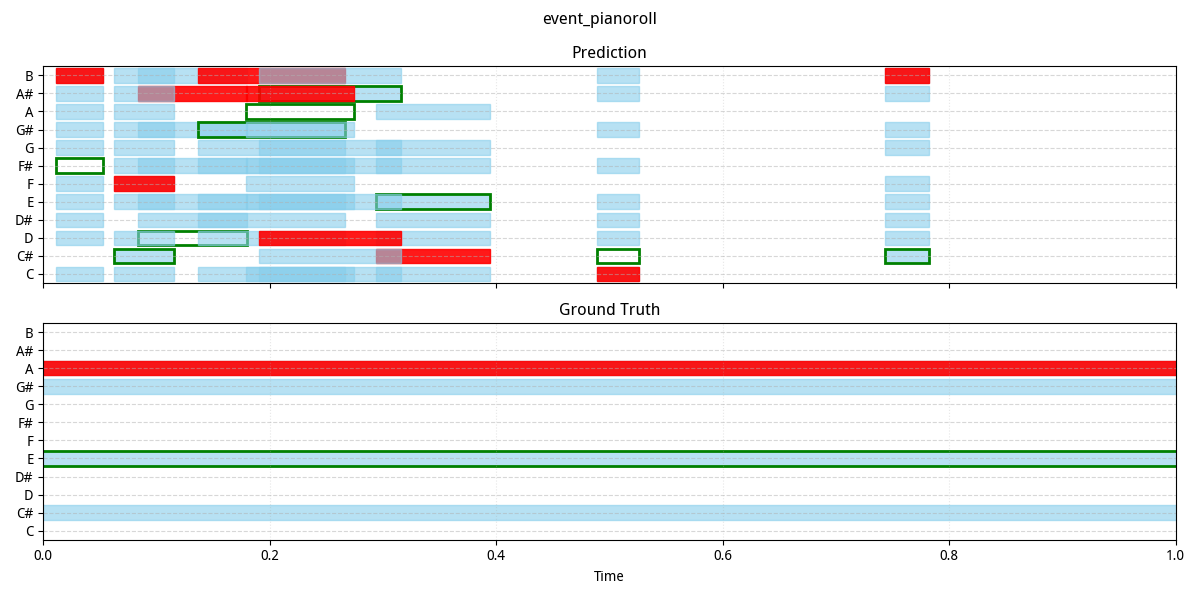
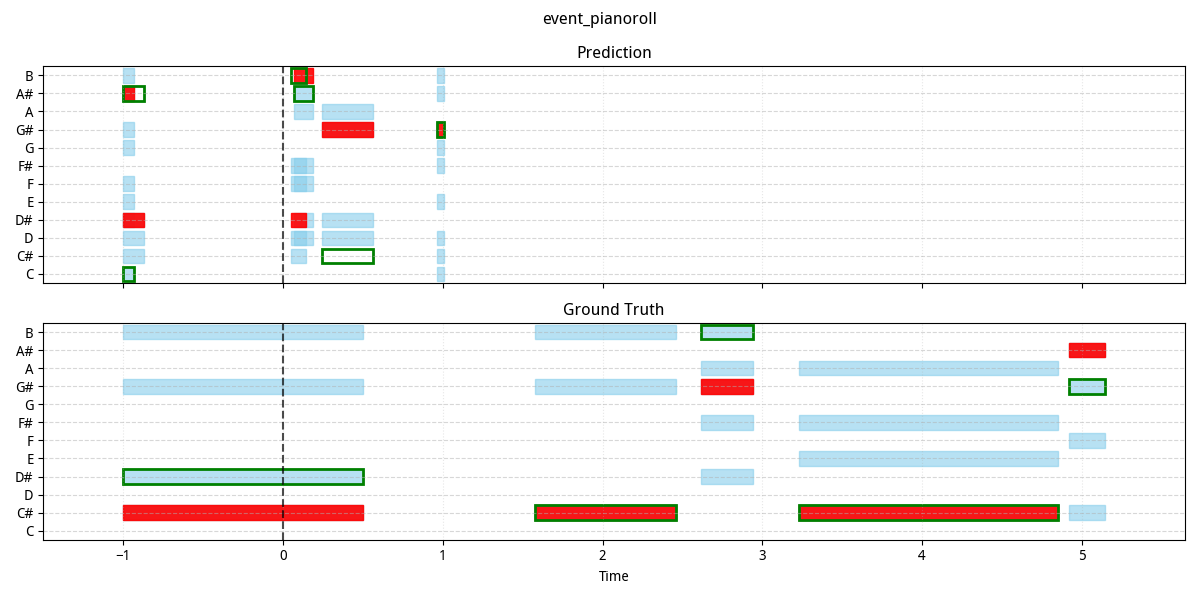
start train chord

diff --git a/models/detr21.py b/models/detr21.py
@@ -735,6 +735,7 @@ class PitchTransformer(nn.Module):
         
         self.infer_threshold = cfg.infer_threshold
         self.infer_chord_threshold = cfg.infer_chord_threshold
+        self.infer_before_threshold = cfg.infer_before_threshold
         
     def forward(self,
                 pitch_spec,
@@ -861,17 +862,20 @@ class PitchTransformer(nn.Module):
 
         threshold = self.infer_threshold
         chord_threshold = self.infer_chord_threshold
+        before_threshold = self.infer_before_threshold
 
         start_pred = output[:,0] # (Q)
         sustain_pred = output[:,1] # (Q,)
+        before_pred = output[:,2] # (Q,)
         exist_pred = output[:,-1] # (Q)
-
-        pitch_pred = output[:,2:2+self.output_dim_pitch]
+        
+        pitch_pred = output[:,3:3+self.output_dim_pitch]
         root_logits = pitch_pred[:,:12] # (Q,12)
         chord_logits = pitch_pred[:, 12:24] # (Q,12)
         tonic_logits = pitch_pred[:, 24:36] # (Q,12)
 
         choice = torch.sigmoid(start_pred) > threshold
+        before_pred = torch.sigmoid(before_pred) > before_threshold
         
         start_pred = start_pred[choice]
         sustain_pred = torch.exp(sustain_pred[choice]) * self.sustain_ref
@@ -887,6 +891,7 @@ class PitchTransformer(nn.Module):
             "start": start_pred, # (M)
             "sustain": sustain_pred, # (M)
             "exist": exist_pred, # (M)
+            "before": before_pred, # (M) 0~1
         }
 
         return result
@@ -907,29 +912,36 @@ class PitchTransformer(nn.Module):
         
         start_gt = target['start'] # (N,)
         sustain_gt = target['sustain'] # (N,)
+        before_gt = target['before'] # (N,)
         root_gt = target['root'] # (N,) int
         tonic_gt = target['tonic'] # (N,) int
         chord_gt = target['chord'] # (N, 12) 0~1
 
 
         Qe = output.shape[0]
-        assert output.shape[1]==2+36+1
+        assert output.shape[1]==3+36+1
         
         start_pred = output[:,0] # (Q)
         sustain_pred = output[:,1] # (Q,)
+        before_pred = output[:,2] # (Q,)
+        
         exist_pred = output[:,-1] # (Q)
 
-        pitch_pred = output[:,2:2+self.output_dim_pitch]
+        pitch_pred = output[:,3:3+self.output_dim_pitch]
         root_logits = pitch_pred[:,:12] # (Q,12)
         chord_logits = pitch_pred[:, 12:24] # (Q,12)
         tonic_logits = pitch_pred[:, 24:36] # (Q,12)
 
+        prob_before = F.sigmoid(before_pred) # (Q,)
+        cost_before = F.binary_cross_entropy_with_logits(prob_before[None,:].expand(Ne, Qe),
+                                                         before_gt[:,None].expand(Ne, Qe),
+                                                         reduction="none")
         
         diff_start = start_gt[:,None] - start_pred[None,:] # (N, Q)
-        cost_start = diff_start**2 # (N, Q)
+        cost_start = diff_start**2 * (1 - before_gt[:, None]) # (N, Q)
         
         diff_sustain = (torch.log(sustain_gt[:, None] + 1e-6)-math.log(self.sustain_ref)) - sustain_pred[None,:] # (N, Q)
-        cost_sustain = diff_sustain**2 # (N, Q)
+        cost_sustain = diff_sustain**2 * (1 - before_gt[:, None]) # (N, Q)
         
         log_prob_root = F.log_softmax(root_logits, dim=-1) # (Q, 12)
         cost_root = -log_prob_root[:, root_gt].T # (N, Q)
@@ -950,7 +962,7 @@ class PitchTransformer(nn.Module):
         ).mean(dim=-1)  # (N, Q)
         
         exist_prob = torch.sigmoid(exist_pred) # (Q,)
-        exist_logprob = - torch.log(exist_prob)[None, :].expand(Ne, Qe) # (N, Q)
+        exist_logprob = - torch.log(exist_prob + 1e-6)[None, :].expand(Ne, Qe) # (N, Q)
         
         return {
             "start": cost_start,
@@ -958,7 +970,8 @@ class PitchTransformer(nn.Module):
             "root": cost_root,
             "tonic": cost_tonic,
             "chord": cost_chord,
-            "exist": exist_logprob
+            "exist": exist_logprob,
+            "before": cost_before
         }
 
     def match_event(self, output, target):

diff --git a/utils/visualizer.py b/utils/visualizer.py
@@ -396,25 +396,15 @@ NOTE_NAMES = ['C', 'C#', 'D', 'D#', 'E', 'F',
 
 
 def plot_pianoroll_event(pred, target, title="event_pianoroll", name="chord_pred"):
-    """
-    pred / target: Dict{
-        "root": (M,)
-        "chord": (M, 12)
-        "tonic": (M,)
-        "start": (M,)
-        "sustain": (M,)
-        "exist": (M,)
-    }
-    """
-    cfg = get_config()
 
     def draw(ax, data, name):
-        root = data["root"]
-        chord = data["chord"]
-        tonic = data["tonic"]
-        start = data["start"]
-        sustain = data["sustain"]
-        # exist = data["exist"]
+        root = np.asarray(data["root"])
+        chord = np.asarray(data["chord"])
+        tonic = np.asarray(data["tonic"])
+        start = np.asarray(data["start"])
+        sustain = np.asarray(data["sustain"])
+        # exist = np.asarray(data["exist"])
+        before = np.asarray(data.get("before", np.zeros_like(start)))
 
         M = len(start)
 
@@ -422,10 +412,15 @@ def plot_pianoroll_event(pred, target, title="event_pianoroll", name="chord_pred
             # if exist[i] < 0.5:
             #     continue
 
-            t0 = start[i]
-            t1 = start[i] + sustain[i]
+            # ===== 处理 before =====
+            if before[i] > 0.5:
+                t0 = -1.0
+            else:
+                t0 = start[i]
 
-            # 🎹 chord notes
+            t1 = t0 + sustain[i]
+
+            # 🎹 chord
             for p in range(12):
                 if chord[i][p] > 0.5:
                     ax.add_patch(
@@ -438,7 +433,7 @@ def plot_pianoroll_event(pred, target, title="event_pianoroll", name="chord_pred
                         )
                     )
 
-            # 🔴 root（红色）
+            # 🔴 root
             ax.add_patch(
                 plt.Rectangle(
                     (t0, root[i] - 0.4),
@@ -449,7 +444,7 @@ def plot_pianoroll_event(pred, target, title="event_pianoroll", name="chord_pred
                 )
             )
 
-            # 🟢 tonic（绿色边框）
+            # 🟢 tonic（边框）
             ax.add_patch(
                 plt.Rectangle(
                     (t0, tonic[i] - 0.4),
@@ -461,19 +456,25 @@ def plot_pianoroll_event(pred, target, title="event_pianoroll", name="chord_pred
                 )
             )
 
-        # 🎯 设置轴
+        # ===== 坐标轴 =====
         ax.set_title(name)
         ax.set_ylim(-0.5, 11.5)
         ax.set_yticks(range(12))
         ax.set_yticklabels(NOTE_NAMES)
 
-        # 横向网格（12音）
+        # 🎯 网格
         ax.grid(True, axis='y', linestyle='--', alpha=0.5)
-
-        # 时间方向网格
         ax.grid(True, axis='x', linestyle=':', alpha=0.3)
 
-    # ====== plot ======
+        # ===== 标记 t=0 =====
+        ax.axvline(0, color='black', linestyle='--', alpha=0.7)
+
+        # ===== x范围（包含 before 区域）=====
+        min_t = -1.5
+        max_t = np.max(start + sustain) + 0.5 if len(start) > 0 else 1
+        ax.set_xlim(min_t, max_t)
+
+    # ===== 绘图 =====
     fig, axs = plt.subplots(2, 1, figsize=(12, 6), sharex=True)
 
     draw(axs[0], pred, "Prediction")
@@ -483,5 +484,7 @@ def plot_pianoroll_event(pred, target, title="event_pianoroll", name="chord_pred
 
     plt.suptitle(title)
     plt.tight_layout()
+
+    cfg = get_config()
     plt.savefig(os.path.join(cfg.save_dir, name + ".png"))
     plt.close()

diff --git a/configs/config.py b/configs/config.py
@@ -339,7 +339,7 @@ def get_config21():
     # assert cfg.num_querys % cfg.num_cls_querys == 0
     
     cfg.input_dim = 2
-    cfg.detr_output_dim_dict = {"event": 2, # [start, log sustain]
+    cfg.detr_output_dim_dict = {"event": 3, # [start, log sustain, before]
                                 "pitch": 36,
                                 "exist": 1}
     cfg.detr_num_decoder_layers = 12
@@ -350,21 +350,6 @@ def get_config21():
     cfg.ffn_dim_up = [1,1,2, 1,1,2, 1,1,2, 1,2,1]
     cfg.ffn_intermediate_up_list = [2,2,4, 2,2,4, 2,2,2, 2,2,2]
     
-    cfg.detr_cost_weight = {
-        "pitch": 1.0,
-        "start": 1.0,
-        "logSustain": 1.0,
-        "text": 1.0
-        # "IoU": 2.0,
-    }
-    
-    cfg.detr_loss_weight = {
-        "pitch": 1.0,
-        "start": 1.0,
-        "logSustain": 1.0,
-        "text": 1.0,
-        "exist": 1.0
-    }
     
     cfg.detr_pos_weight_text = 1
     cfg.detr_pos_weight_event = 1
@@ -376,6 +361,7 @@ def get_config21():
         "tonic": 1,
         "chord": 1,
         "exist": 3,
+        "before": 2,
     }
     
     cfg.detr2_cost_weight = {
@@ -385,6 +371,7 @@ def get_config21():
         "tonic": 1,
         "chord": 1,
         "exist": 0,
+        "before": 5,
     }
     
     cfg.sustain_ref = 0.1
@@ -394,6 +381,7 @@ def get_config21():
     
     cfg.infer_threshold = 0.5
     cfg.infer_chord_threshold = 0.5
+    cfg.infer_before_threshold = 0.5
     
     cfg.llm = argparse.Namespace()
     

diff --git a/train21.py b/train21.py
@@ -121,7 +121,7 @@ for epoch in range(start_epoch+1, num_epochs):
             target = to_device(target, torch.device("cpu"))
             infer_output = to_device(infer_output, torch.device("cpu"))
             plot_pianoroll_event(infer_output, target[0])
-            assert 0
+            # assert 0
     print(f"==== Epoch {epoch} avg loss: {total_loss / (step+1):.4f} ====")
     # ---------- 保存 ----------
     if epoch % cfg.save_epoch == 0:
